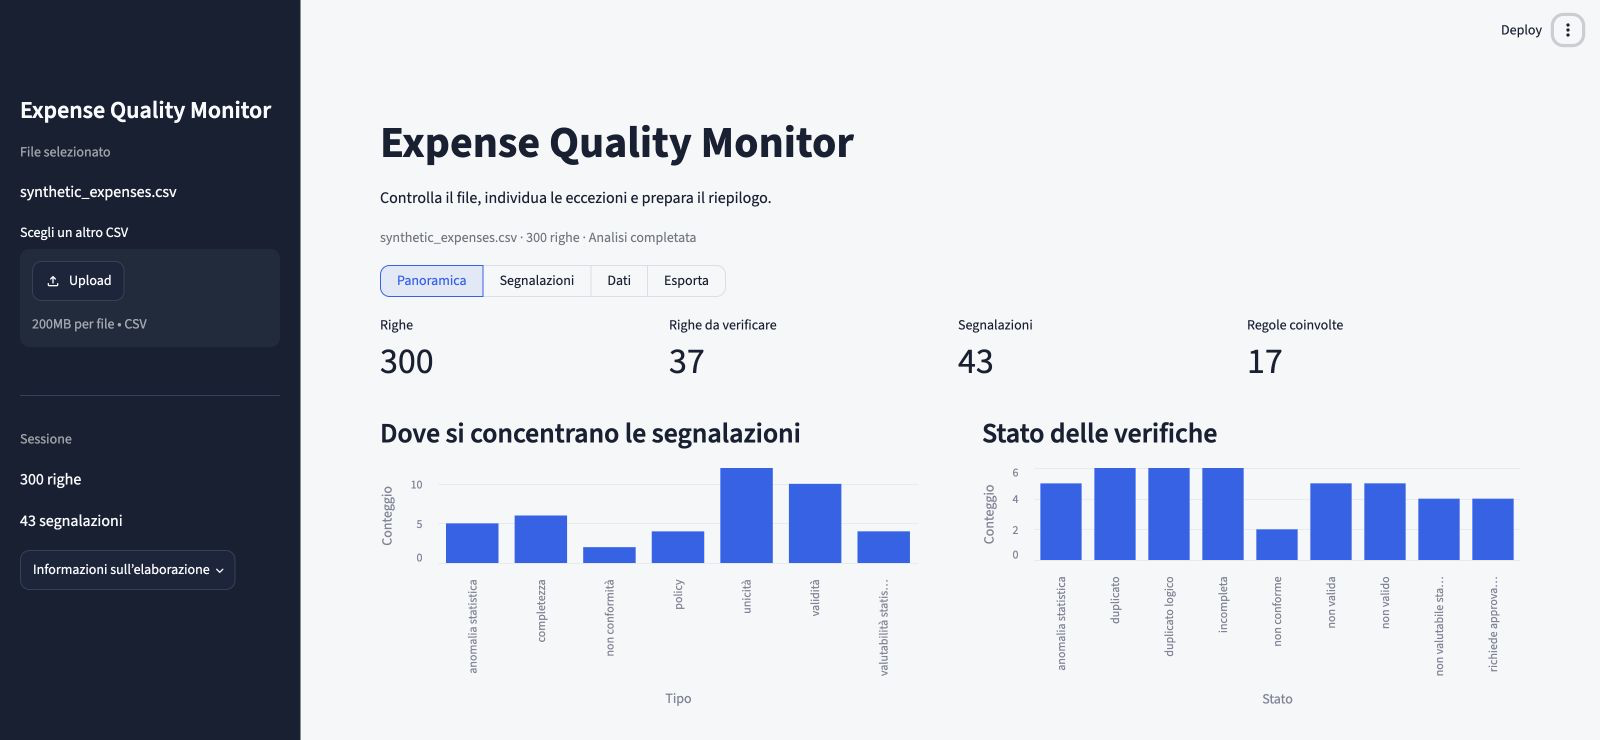
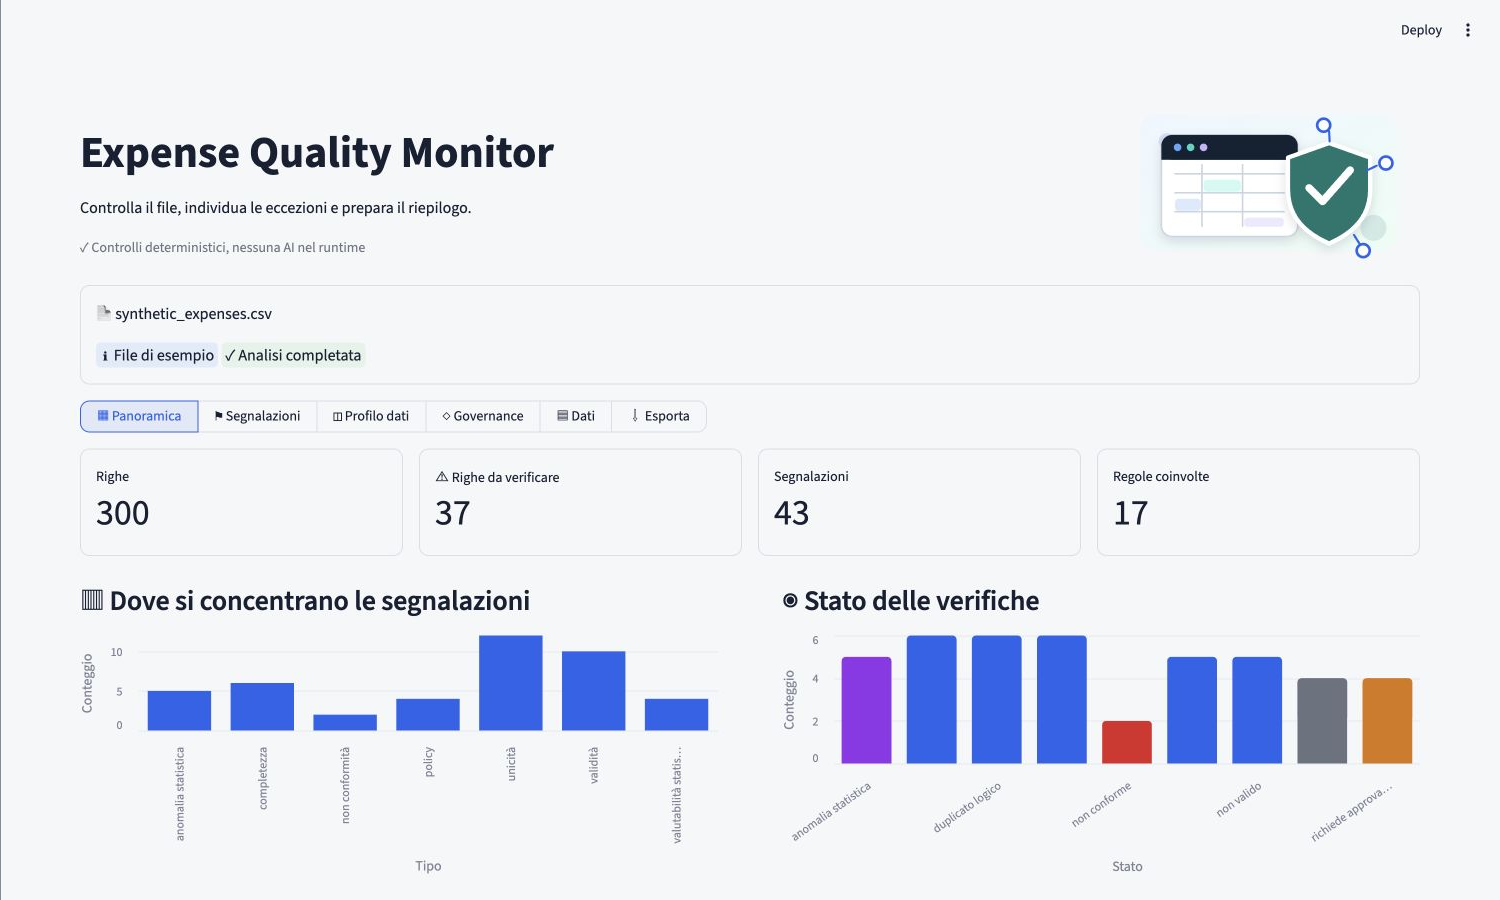
docs: allinea repository e documentazione alle nuove funzionalità

diff --git a/docs/design.md b/docs/design.md
@@ -28,8 +28,9 @@ Il flusso applicativo è:
 5. applicazione delle regole;
 6. produzione della tabella delle segnalazioni;
 7. calcolo del riepilogo;
-8. visualizzazione tramite Streamlit;
-9. esportazione CSV delle segnalazioni.
+8. costruzione di Profilo dati, Dizionario dati e viste di Governance;
+9. localizzazione e presentazione tramite Streamlit;
+10. esportazione CSV delle segnalazioni canoniche.
 
 ### Stack
 
@@ -59,8 +60,11 @@ expense-quality-monitor/
 │   └── expense_quality_monitor/
 │       ├── __init__.py
 │       ├── config.py
+│       ├── governance.py
+│       ├── i18n.py
 │       ├── loader.py
 │       ├── normalization.py
+│       ├── profiling.py
 │       ├── rules/
 │       │   ├── __init__.py
 │       │   ├── completeness.py
@@ -69,7 +73,8 @@ expense-quality-monitor/
 │       │   ├── statistical.py
 │       │   └── policy.py
 │       ├── pipeline.py
-│       └── reporting.py
+│       ├── reporting.py
+│       └── ui_theme.py
 └── tests/
 ```
 
@@ -87,7 +92,18 @@ Responsabilità dei componenti:
 - `rules/policy.py`: soglie, richieste di approvazione e non conformità.
 - `pipeline.py`: ordinamento ed esecuzione coordinata delle fasi, senza duplicare le singole regole.
 - `reporting.py`: riepiloghi, ordinamento delle segnalazioni ed esportazione CSV.
+- `profiling.py`: metriche strutturali, profilo per colonna e Dizionario dati canonico,
+  senza rendering.
+- `governance.py`: metadati immutabili dell'elaborazione, SHA-256, catalogo tecnico delle
+  regole e riepilogo per dimensione, senza dipendenze da Streamlit o traduzioni.
+- `i18n.py`: cataloghi italiano e inglese, rilevamento del locale e funzioni di
+  localizzazione della presentazione.
+- `ui_theme.py`: ruoli, colori e icone semantiche, senza logica di analisi.
 - `tests/`: test unitari, di integrazione e di regressione.
+
+`app.py` coordina la navigazione, i widget e lo stato della sessione. Le copie localizzate
+dei DataFrame sono create esclusivamente per la presentazione: `AnalysisResult`, ground
+truth ed export mantengono valori e colonne canonici.
 
 ## 5. Modello dei dati
 
@@ -163,19 +179,25 @@ La pipeline distingue tre esiti:
 
 Gli errori tecnici completi possono essere registrati localmente per lo sviluppo, senza includere contenuti sensibili del CSV nell'interfaccia.
 
-## 9. Dashboard
+## 9. Dashboard e stato di sessione
 
 La dashboard Streamlit comprende:
 
 - caricamento del CSV;
-- numero totale di righe;
-- numero di righe con almeno una segnalazione;
-- conteggi per tipo e stato;
-- riepilogo per categoria;
-- tabella filtrabile delle anomalie;
+- navigazione stabile tra Panoramica, Segnalazioni, Profilo dati, Governance, Dati ed
+  Esporta;
+- interfaccia in italiano e inglese con scelta persistente nella sessione;
+- metriche, conteggi per tipo e stato e riepilogo per categoria;
+- tabella ricercabile e filtrabile delle anomalie;
+- profilo per colonna e Dizionario dati dei dieci campi canonici;
+- metadati dell'elaborazione, fingerprint SHA-256, catalogo delle 17 regole e riepilogo
+  delle cinque dimensioni di qualità;
+- responsabilità facoltative conservate soltanto nello stato della sessione;
 - download CSV delle segnalazioni.
 
-La logica di analisi resta nei moduli applicativi e non nell'interfaccia.
+Il cambio di lingua o sezione conserva sorgente, risultati, filtri, timestamp e
+responsabilità. Il cambio della sorgente crea nuovi metadati e azzera le responsabilità
+facoltative. La logica di analisi resta nei moduli applicativi e non nell'interfaccia.
 
 ## 10. Strategia di test
 
@@ -199,7 +221,14 @@ I test verificano sia le segnalazioni attese sia l'assenza di segnalazioni aggiu
 - Il contenuto del CSV viene trattato come dato e non viene mai eseguito.
 - Un limite configurabile alla dimensione del caricamento resta un miglioramento futuro.
 - L'esportazione neutralizza valori testuali che potrebbero essere interpretati come formule dai fogli di calcolo.
-- La CI esegue pytest, ruff e bandit.
+- La CI rigenera e confronta i dataset, quindi esegue pytest, Ruff, Bandit, compileall e
+  `pip check`.
+- Il timestamp UTC descrive l'elaborazione corrente, resta separato da `AnalysisResult` e
+  non entra nella ground truth o nell'export.
+- Il fingerprint SHA-256 è calcolato sui byte originali del file, non su una
+  serializzazione del DataFrame.
+- Le responsabilità facoltative non sono persistite e non costituiscono assegnazioni
+  aziendali.
 - I commit descrivono il contenuto della modifica secondo le convenzioni definite in
   `CONTRIBUTING.md`; l'assistenza AI è documentata come parte del processo di revisione e
   non come categoria del commit.
@@ -225,3 +254,13 @@ I test verificano sia le segnalazioni attese sia l'assenza di segnalazioni aggiu
 - CD;
 - microservizi;
 - modelli AI nel runtime.
+
+## 14. Limiti tecnici correnti
+
+- Non esistono persistenza, autenticazione o lineage operativo persistente.
+- Timestamp e responsabilità appartengono esclusivamente alla sessione corrente.
+- La Governance rende visibili informazioni locali e deterministiche, ma non costituisce
+  una piattaforma aziendale completa di data governance.
+- `app.py` supera 1.400 righe e resta un monolite UI di dimensione significativa. La
+  separazione futura dei renderer è una possibile manutenzione, non parte di questo audit.
+- L'analisi riguarda un solo file settimanale per volta e non mantiene uno storico.

diff --git a/docs/requirements.md b/docs/requirements.md
@@ -82,6 +82,37 @@ Realizzare uno strumento che riceva un file di note spese, esegua automaticament
 - Mostrare in un piccolo cruscotto un riepilogo delle anomalie della settimana.
 - Utilizzare il dataset sintetico incluso nel repository, che contiene volutamente valori nulli, duplicati, importi anomali e formati errati.
 
+### Interfaccia e localizzazione
+
+- Rendere l'interfaccia disponibile in italiano e inglese.
+- Rilevare il locale iniziale tra le lingue supportate e consentire una scelta esplicita
+  mantenuta nella sessione.
+- Conservare file, sezione, filtri, risultati ed export durante il cambio lingua.
+- Mantenere canonici e non tradotti nomi delle colonne CSV, `rule_id` e valori esportati;
+  localizzare soltanto la presentazione.
+
+### Profilo dati e Dizionario dati
+
+- Mostrare un profilo per colonna con completezza, valori distinti, tipi osservati e
+  attesi, intervalli validi e segnalazioni correlate.
+- Mostrare un Dizionario dati derivato dalla configurazione canonica dei dieci campi,
+  includendo obbligatorietà, formato, valori ammessi e regole applicabili.
+- Calcolare profilo e dizionario senza modificare i DataFrame canonici dell'analisi.
+
+### Governance locale
+
+- Mostrare nome, dimensione e formato della sorgente, timestamp UTC dell'elaborazione,
+  conteggi strutturali, colonne aggiuntive e versione applicativa disponibile.
+- Calcolare un fingerprint SHA-256 sui byte originali del file.
+- Mostrare il catalogo delle 17 regole derivato dalle fonti canoniche, con dimensione di
+  qualità, stato prodotto, campi e parametri effettivi.
+- Riepilogare numero di regole, segnalazioni e righe coinvolte per le cinque dimensioni
+  supportate: completezza, validità, unicità, anomalia statistica e conformità alle policy.
+- Consentire l'inserimento facoltativo di data owner, data steward, unità organizzativa,
+  periodo e note, conservandoli esclusivamente nella sessione corrente.
+- Non includere timestamp o responsabilità nella ground truth o nell'export delle
+  segnalazioni.
+
 ## Criteri di accettazione
 
 1. Un CSV privo di una colonna prevista viene segnalato indicando la colonna mancante.
@@ -97,6 +128,15 @@ Realizzare uno strumento che riceva un file di note spese, esegua automaticament
 11. Una spesa sopra soglia con `approvatore` valorizzato non viene classificata come non conforme per questa regola.
 12. Una spesa sopra soglia con `approvatore` vuoto riceve il messaggio `non conforme: supera soglia senza approvatore assegnato`.
 13. Anomalia statistica, richiesta di approvazione e non conformità rimangono classificazioni distinte.
+14. L'interfaccia è utilizzabile in italiano e inglese senza alterare i valori canonici
+    esportati.
+15. Il Profilo dati e il Dizionario dati riportano i dieci campi canonici e derivano dalle
+    configurazioni applicative.
+16. Il fingerprint mostrato coincide con lo SHA-256 dei byte originali della sorgente.
+17. Il catalogo contiene esattamente i 17 `rule_id` configurati e il riepilogo usa soltanto
+    le cinque dimensioni supportate.
+18. Le responsabilità sono facoltative, persistono tra lingua e sezione nella stessa
+    sessione e vengono azzerate quando cambia sorgente.
 
 ## Requisiti non funzionali
 
@@ -106,6 +146,8 @@ Realizzare uno strumento che riceva un file di note spese, esegua automaticament
 - La dashboard può essere leggera; la perfezione estetica non è un obiettivo della valutazione.
 - Le ore impiegate devono essere registrate in modo effettivo, senza stime retrospettive.
 - La documentazione deve comunicare in modo trasparente assunzioni, uso dell'AI e correzioni critiche dei suoi output.
+- Metadati e responsabilità della Governance non devono essere salvati automaticamente né
+  inviati a servizi esterni.
 
 ## Vincoli di governance
 

diff --git a/README.md b/README.md
@@ -6,7 +6,9 @@
 
 ## TL;DR
 
-Expense Quality Monitor riceve un CSV di spese, applica controlli deterministici e produce segnalazioni motivate, riepiloghi ed export filtrabili. È pensato per amministrazione, finance e controllo di gestione, con risultati consultabili attraverso una dashboard.
+Expense Quality Monitor riceve un CSV di spese, applica controlli deterministici e produce
+segnalazioni motivate, riepiloghi ed export filtrabili. È pensato per amministrazione,
+finance e controllo di gestione e offre un'interfaccia in italiano e inglese.
 
 ## Demo online
 
@@ -41,6 +43,10 @@ Il progetto applica le stesse regole a ogni esecuzione e restituisce una vista o
 - controlli di completezza, validità, unicità, statistica e policy;
 - ricerca e filtri sulle segnalazioni;
 - dashboard con metriche e riepiloghi;
+- Profilo dati per colonna e Dizionario dati dei dieci campi canonici;
+- Governance locale con metadati, SHA-256, catalogo delle 17 regole e riepilogo per
+  dimensione;
+- responsabilità facoltative conservate soltanto nella sessione corrente;
 - export CSV della vista corrente.
 
 ## Come funziona
@@ -50,9 +56,10 @@ Il progetto applica le stesse regole a ogni esecuzione e restituisce una vista o
 1. caricamento del CSV;
 2. validazione dello schema;
 3. normalizzazione dei valori di lavoro;
-4. esecuzione delle regole deterministiche;
-5. generazione delle segnalazioni;
-6. analisi dei risultati ed export.
+4. esecuzione coordinata delle 17 regole;
+5. generazione delle segnalazioni e dei riepiloghi;
+6. consultazione di risultati, Profilo dati, Dizionario dati e Governance;
+7. esportazione canonica delle segnalazioni.
 
 ## Struttura del CSV
 
@@ -109,14 +116,18 @@ python -m ruff check .
 python -m ruff format --check .
 ```
 
-La versione corrente dispone di 77 test automatici. GitHub Actions rigenera il dataset, verifica la ground truth ed esegue test, Ruff, Bandit e compilazione dei sorgenti. A parità di input e versione, la pipeline produce risultati deterministici.
+La versione corrente dispone di 240 test automatici. GitHub Actions rigenera il dataset,
+verifica la ground truth ed esegue test, Ruff, Bandit, compilazione dei sorgenti e controllo
+delle dipendenze installate. A parità di input e versione, la pipeline produce risultati
+deterministici.
 
 ## Architettura
 
 Il progetto è un monolite modulare: l’interfaccia coordina componenti separati, mentre regole e reporting restano indipendenti dalla dashboard.
 
 ```text
-loader → normalizzazione → regole → pipeline → reporting → dashboard
+loader → normalizzazione → regole → pipeline → reporting
+                         ↘ profiling e governance → i18n e tema → Streamlit
 ```
 
 Responsabilità, scelte e alternative sono descritte nel [design della soluzione](docs/design.md).
@@ -136,8 +147,12 @@ Per le convenzioni di sviluppo e il processo di revisione, consultare
 - nessuno storico persistente;
 - nessuna autenticazione;
 - nessun database;
+- metadati di responsabilità limitati alla sessione e non salvati;
+- Governance locale, non una piattaforma aziendale completa di data governance;
+- `app.py` resta un monolite UI di dimensione significativa;
 - nessuna conversione valutaria;
 - nessuna integrazione con sistemi aziendali;
+- nessuna AI nel runtime;
 - validazione eseguita su un dataset controllato.
 
 ## Documentazione

diff --git a/CONTRIBUTING.md b/CONTRIBUTING.md
@@ -76,5 +76,7 @@ python -m pytest -q
 python -m ruff check .
 python -m ruff format --check .
 python -m bandit -r src app.py -c pyproject.toml
+python -m compileall src tests app.py
+python -m pip check
 git diff --check
 ```
